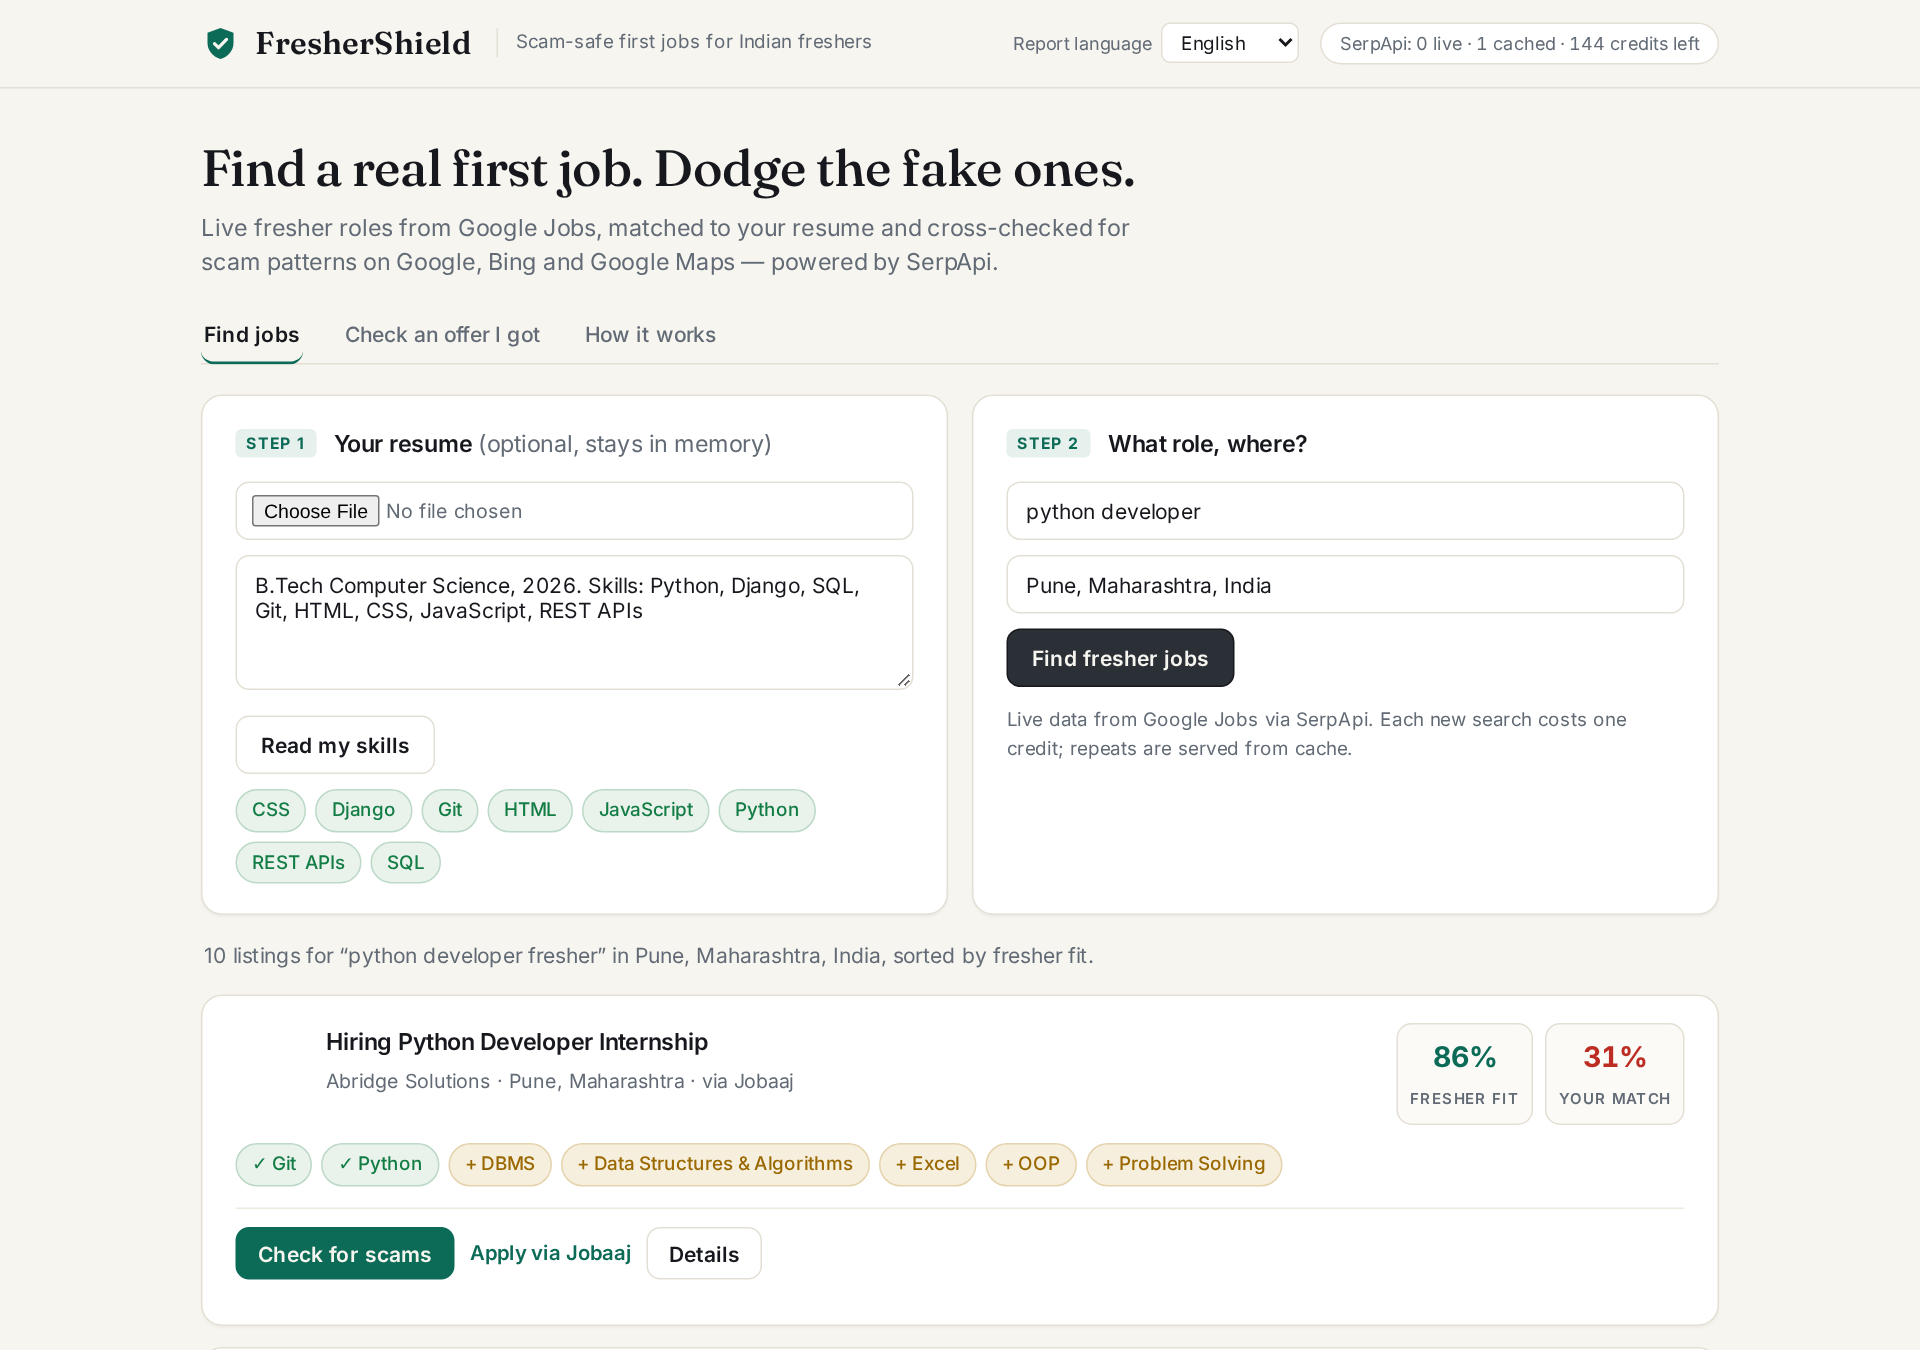
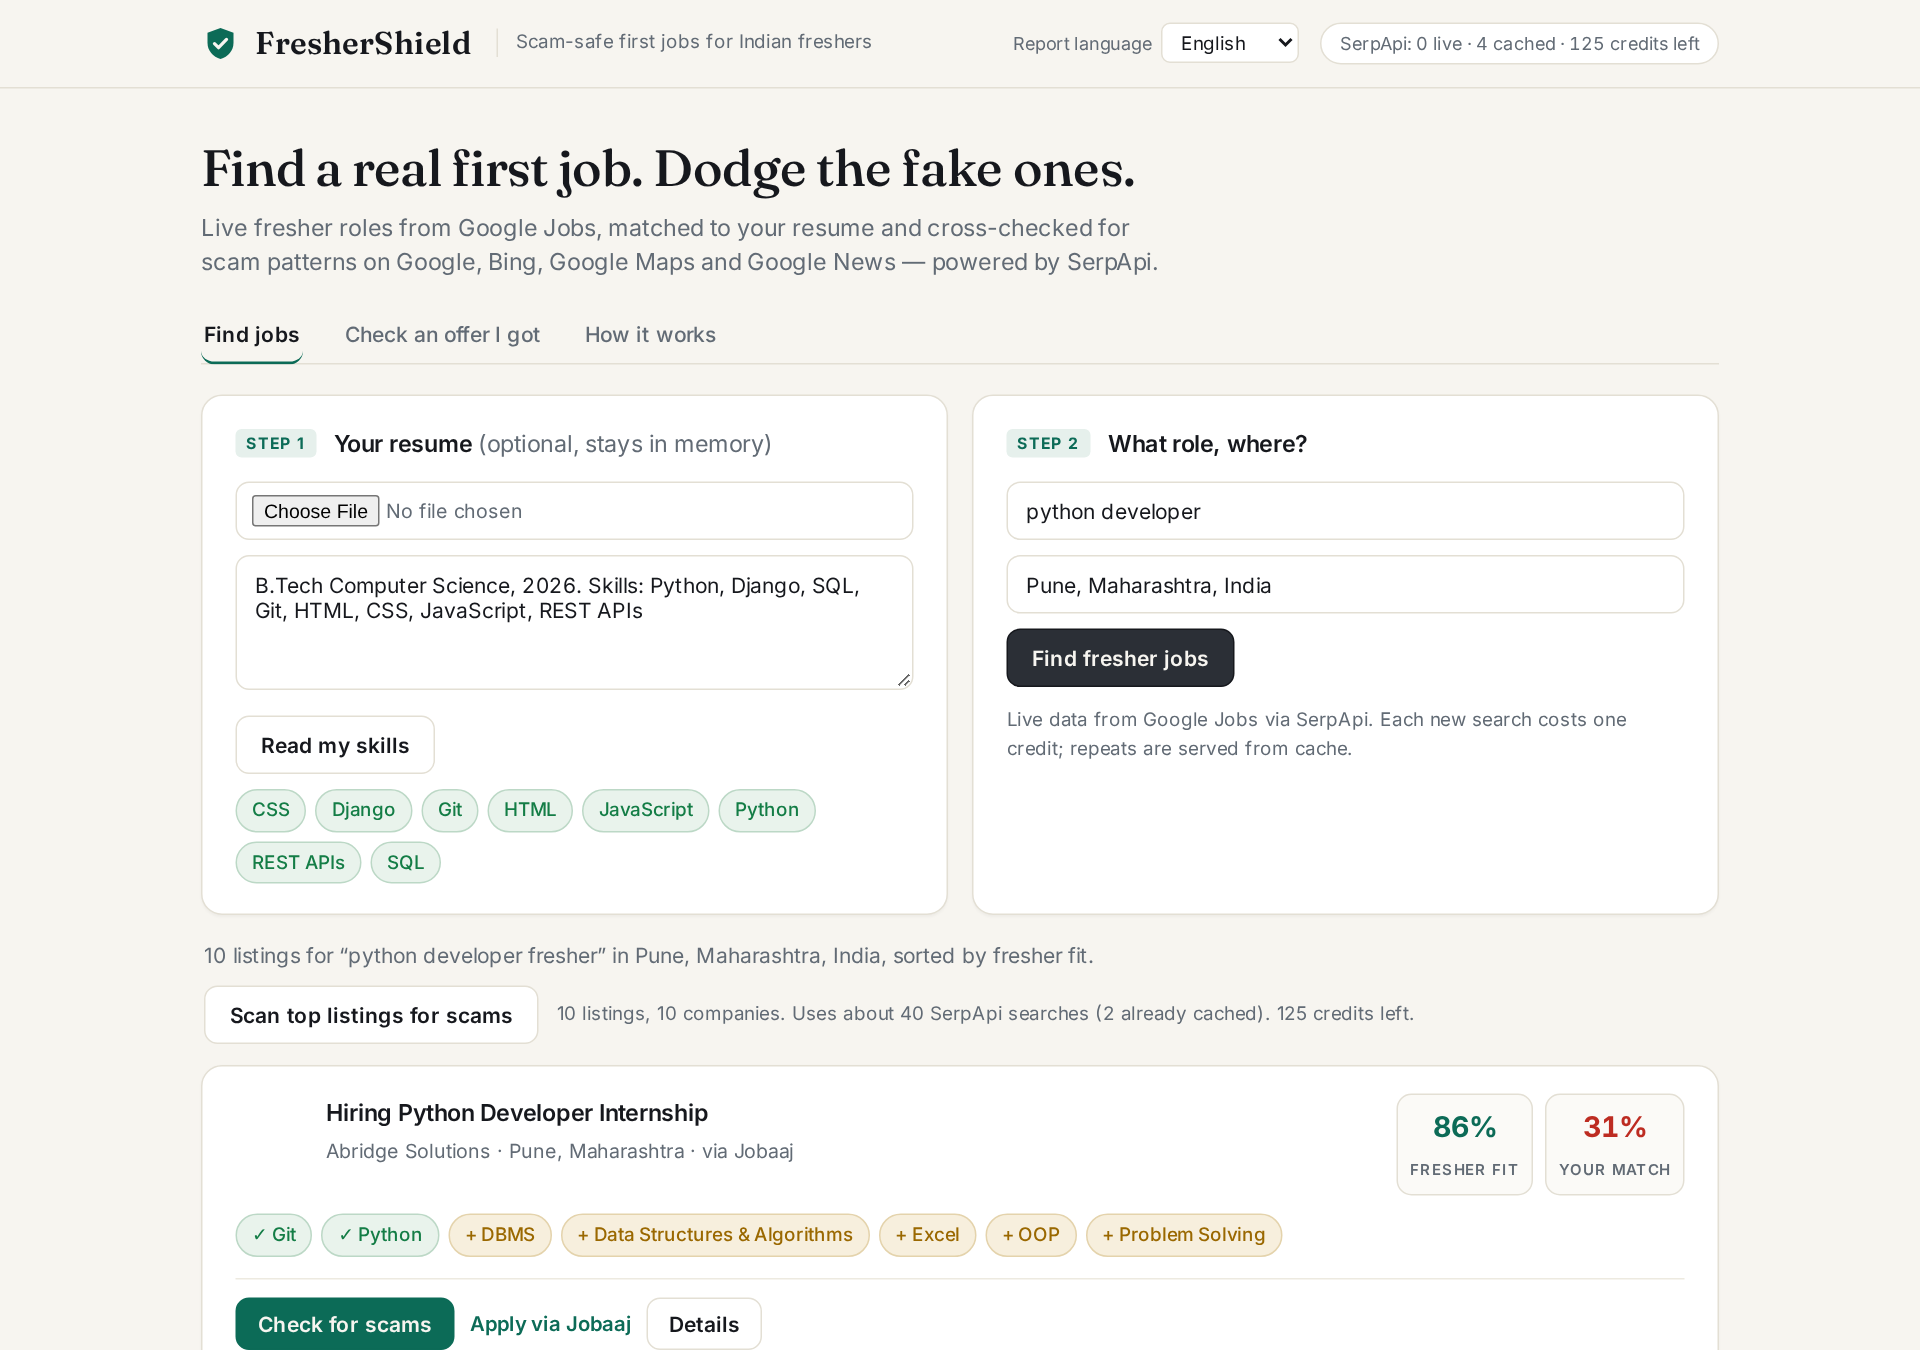
Refresh screenshots and worked examples with live News and salary results
Regenerated from live SerpApi data (3 new searches; the rest from cache). The
sample scam offer now quotes Rs 45,000/month for data entry, which the salary
check flags.

diff --git a/demo/screenshots.py b/demo/screenshots.py
@@ -21,7 +21,7 @@ RESUME = "B.Tech Computer Science, 2026. Skills: Python, Django, SQL, Git, HTML,
 # A composite of common fee-scam messages; the company name is invented (see docs/EXAMPLES.md).
 OFFER_COMPANY = "Quikhire Global Staffing"
 OFFER = """Congratulations!! You are shortlisted for Work From Home Data Entry job at Quikhire Global Staffing.
-Salary Rs 28,000/month, no experience needed, no interview, direct joining.
+Salary Rs 45,000/month, no experience needed, no interview, direct joining.
 Pay Rs 1,999 registration fee (100% refundable) to confirm your seat. Limited slots.
 Contact HR Neha on WhatsApp 98xxxxxx21 or quikhire.hr@gmail.com today only."""
 

diff --git a/docs/EXAMPLES.md b/docs/EXAMPLES.md
@@ -1,8 +1,9 @@
 # Worked examples
 
 Two end-to-end runs of the scam check, with the real output. Both were run on
-24 September 2026 against live SerpApi data (4 searches each: Google complaint
-search, Bing complaint search, Google reviews/legitimacy search, Google Maps). Once
+24 September 2026 against live SerpApi data (5 searches each: Google complaint
+search, Bing complaint search, Google reviews/legitimacy search, Google Maps, Google
+News). Once
 cached they re-run with `FS_OFFLINE=1` at no cost. Search results change over time, so
 a re-run after the cache expires can differ.
 
@@ -15,7 +16,7 @@ named, and the phone number is masked.
 
 ```text
 Congratulations!! You are shortlisted for Work From Home Data Entry job at Quikhire Global Staffing.
-Salary Rs 28,000/month, no experience needed, no interview, direct joining.
+Salary Rs 45,000/month, no experience needed, no interview, direct joining.
 Pay Rs 1,999 registration fee (100% refundable) to confirm your seat. Limited slots.
 Contact HR Neha on WhatsApp 98xxxxxx21 or quikhire.hr@gmail.com today only.
 ```
@@ -32,19 +33,24 @@ Result: **HIGH risk, 100/100.** Asks for money up front. Real employers in India
 | Weight | Signal | Evidence / detail |
 |---:|---|---|
 | +35 | Asks for money (fee / deposit / payment) | …/month, no experience needed, no interview, direct joining. Pay Rs 1,999 registration fee (100% refundable) to confirm your seat… |
-| +20 | Promises a job without an interview | …bal Staffing. Salary Rs 28,000/month, no experience needed, no interview, direct joining. Pay Rs 1,999 registration fee (100% refund… |
+| +20 | Promises a job without an interview | …bal Staffing. Salary Rs 45,000/month, no experience needed, no interview, direct joining. Pay Rs 1,999 registration fee (100% refund… |
+| +20 | Pay (₹5.4 LPA) is far above the usual fresher range for data entry (₹1.2-₹2.4 LPA) | [salaryctc.com: Fresher pay for data entry roles](https://salaryctc.com/data-entry-operator-salary/) |
 | +18 | No Knowledge Graph, reviews, registry record, official website or Maps listing found | Brand-new or non-existent companies are a common scam pattern. Not proof on its own. |
 | +15 | Recruiting over WhatsApp/Telegram instead of a company channel | …le) to confirm your seat. Limited slots. Contact HR Neha on WhatsApp 98xxxxxx21 or quikhire.hr@gmail.com today only. |
 | +12 | Recruiter uses a free email address (gmail/yahoo) | …t. Limited slots. Contact HR Neha on WhatsApp 98xxxxxx21 or quikhire.hr@gmail.com today only. |
+| +12 | Company name used in a free email address (quikhire.hr@gmail.com) | Companies don't recruit from gmail/yahoo accounts named after themselves. |
 | +8 | High-pressure urgency | …99 registration fee (100% refundable) to confirm your seat. Limited slots. Contact HR Neha on WhatsApp 98xxxxxx21 or quikhire.hr@gmai… |
 | +4 | No Google Maps listing under this name | Most employers with a real office have one. Remote-first startups may not, so this is weak on its own. |
 | -10 | No scam or fraud complaints tied to this name on Google or Bing |  |
 
-Engines queried: google, bing, google_maps.
+Engines queried: google, bing, google_maps, google_news.
 
 - The **posting text** alone is enough for a high verdict: a fee request is a hard rule
   (the score is raised to at least 70), and WhatsApp HR, a gmail recruiter, "no
   interview" and urgency add to it.
+- The **salary reality check** flags Rs 45,000 a month (about ₹5.4 LPA) for a data-entry
+  job with no experience: freshers in data entry usually get ₹1.2-2.4 LPA, and high pay
+  for easy work is the usual hook. The salary source is linked in the report.
 - The **web layer** found no complaints (an invented name has none), but also no
   Knowledge Graph panel, no reviews, no registry record, no official site and **no Google
   Maps listing**. A real employer almost always has at least one of these.
@@ -59,12 +65,17 @@ Asks for money up front. Real employers in India do not charge freshers to get h
 Why:
 ⚠ Asks for money (fee / deposit / payment) (+35)
 ⚠ Promises a job without an interview (+20)
+⚠ Pay (₹5.4 LPA) is far above the usual fresher range for data entry (₹1.2-₹2.4 LPA) (+20)
 ⚠ No Knowledge Graph, reviews, registry record, official website or Maps listing found (+18)
 ⚠ Recruiting over WhatsApp/Telegram instead of a company channel (+15)
 ⚠ Recruiter uses a free email address (gmail/yahoo) (+12)
+⚠ Company name used in a free email address (quikhire.hr@gmail.com) (+12)
 ⚠ High-pressure urgency (+8)
 ⚠ No Google Maps listing under this name (+4)
 ✅ No scam or fraud complaints tied to this name on Google or Bing (-10)
+
+Evidence:
+- salaryctc.com: https://salaryctc.com/data-entry-operator-salary/
 
 Never pay to get a job. Report fraud at cybercrime.gov.in or call 1930.
 Checked with FresherShield: https://github.com/akashrajeev/FresherShield
@@ -80,12 +91,17 @@ The same export in Hindi (`"lang": "hi"`), for sending to family:
 क्यों:
 ⚠ पैसे माँगता है (फ़ीस / डिपॉज़िट / पेमेंट) (+35)
 ⚠ बिना इंटरव्यू नौकरी का वादा (+20)
+⚠ सैलरी (₹5.4 LPA) data entry में फ्रेशर्स की आम सैलरी (₹1.2-₹2.4 LPA) से बहुत ज़्यादा है (+20)
 ⚠ न Knowledge Graph, न रिव्यू, न रजिस्ट्री, न वेबसाइट, न Google Maps लिस्टिंग मिली (+18)
 ⚠ कंपनी के चैनल की जगह WhatsApp/Telegram पर भर्ती (+15)
 ⚠ रिक्रूटर फ्री ईमेल (gmail/yahoo) इस्तेमाल करता है (+12)
+⚠ फ्री ईमेल पते में कंपनी का नाम (quikhire.hr@gmail.com) (+12)
 ⚠ जल्दबाज़ी का दबाव (+8)
 ⚠ इस नाम से Google Maps पर कोई लिस्टिंग नहीं (+4)
 ✅ Google + Bing पर इस नाम से जुड़ी कोई स्कैम या फ्रॉड शिकायत नहीं (-10)
+
+सबूत:
+- salaryctc.com: https://salaryctc.com/data-entry-operator-salary/
 
 नौकरी पाने के लिए कभी पैसे न दें। फ्रॉड की शिकायत cybercrime.gov.in पर करें या 1930 पर कॉल करें।
 FresherShield से जाँचा गया: https://github.com/akashrajeev/FresherShield
@@ -97,23 +113,28 @@ FresherShield से जाँचा गया: https://github.com/akashrajeev/F
 curl -s localhost:8000/api/check -H 'Content-Type: application/json' -d '{"company": "Infosys"}'
 ```
 
-Result: **CAUTION, 38/100.** Real company, but its name is used by impostors. Apply only via the official careers page.
+Result: **CAUTION, 44/100.** Real company, but its name is used by impostors. Apply only via the official careers page.
 
 | Weight | Signal | Evidence / detail |
 |---:|---|---|
 | +16 | 1 search result(s) link this company name to scam/fraud complaints (Google) | [Reddit: Infosys Biggest SCAM Till Date : r/it](https://www.reddit.com/r/it/comments/1sxy5n3/infosys_biggest_scam_till_date/) |
 | +10 | Scammers are known to use this company's name (fake offer letters / fraud alerts) | [infosys.com: Disclaimer - Recruitment Fraud Alert](https://www.infosys.com/careers/apply/recruitment-fraud-alert.html)<br>[infosys.org: Fraud Alert / Infosys](https://www.infosys.org/infosys-foundation/fraud-alert.html)<br>[infosys.com: Infosys Complaints Management](https://www.infosys.com/services/experience-transformation/service-offerings/complaints-management.html) |
 | +8 | Discussed on complaint/review forums: Reddit | [Reddit: Infosys Biggest SCAM Till Date : r/it](https://www.reddit.com/r/it/comments/1sxy5n3/infosys_biggest_scam_till_date/) |
+| +6 | News reports warn of fake offers using this company's name | [The Times of India: Impersonation, cheating pause hiring tests at Info](https://timesofindia.indiatimes.com/business/india-business/impersonation-cheating-pause-hiring-tests-at-infosys/articleshow/131599849.cms)<br>[The Indian Express: Telangana engineer tries ‘Dragon’-style impersonat](https://indianexpress.com/article/trending/trending-in-india/telangana-engineer-tries-dragon-style-impersonation-fraud-to-get-infosys-job-busted-in-15-days-9962926/)<br>[The Times of India: Beware of recruitment fraud! Why Infosys is discon](https://timesofindia.indiatimes.com/business/india-business/beware-of-recruitment-fraud-why-infosys-has-discontinuing-issuing-job-offer-letters-to-new-recruits-through-emails/articleshow/114038360.cms) |
 | -6 | Has its own website (infosys.com) | [infosys.com: Disclaimer - Recruitment Fraud Alert](https://www.infosys.com/careers/apply/recruitment-fraud-alert.html) |
 | -10 | On Google Maps: 20 listing(s), 8,535 reviews, top rated 4.1/5 | [Google Maps: Infosys Limited](https://www.google.com/maps/search/?api=1&query=Infosys+Limited&query_place_id=ChIJLXKxtIs1bDkR_FLn-e-4lLE)<br>[Google Maps: Infosys Development Centre](https://www.google.com/maps/search/?api=1&query=Infosys+Development+Centre&query_place_id=ChIJpd3BEA1bOToRRuauNsok42U)<br>[Google Maps: Infosys Indore](https://www.google.com/maps/search/?api=1&query=Infosys+Indore&query_place_id=ChIJcwrkCxwCYzkRz3sptFDvHVU) |
 
-Engines queried: google, bing, google_maps.
+Engines queried: google, bing, google_maps, google_news.
 
 - Google and Bing return "fraud" results for Infosys, but the ones on Infosys's own
   domains are **recruitment-fraud-alert pages**. FresherShield files those as
   *impersonation risk* (scammers use the name), not as complaints against the company.
 - **Google Maps** shows many Infosys offices with thousands of reviews: strong evidence
   the company is real.
+- **Google News** has several job-fraud reports that name Infosys ("Impersonation,
+  cheating pause hiring tests at Infosys", recruitment-fraud warnings). Because Infosys is clearly a real, established company,
+  these are filed as *impersonation* (+6), not as fraud by Infosys. For an unknown name
+  with no footprint, the same headlines would add up to +30.
 - A Reddit thread with "scam" in its title is still counted and linked so the user can
   read it and judge. That keeps the score at *caution*, and the headline tells the
   fresher what to do: apply only through the official careers page.
@@ -122,13 +143,14 @@ Plain-text export:
 
 ```text
 🛡 FresherShield: Infosys
-Verdict: CAUTION (38/100)
+Verdict: CAUTION (44/100)
 Real company, but its name is used by impostors. Apply only via the official careers page.
 
 Why:
 ⚠ 1 search result(s) link this company name to scam/fraud complaints (Google) (+16)
 ⚠ Scammers are known to use this company's name (fake offer letters / fraud alerts) (+10)
 ⚠ Discussed on complaint/review forums: Reddit (+8)
+⚠ News reports warn of fake offers using this company's name (+6)
 ✅ Has its own website (infosys.com) (-6)
 ✅ On Google Maps: 20 listing(s), 8,535 reviews, top rated 4.1/5 (-10)
 
